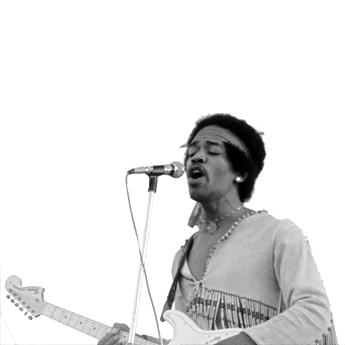
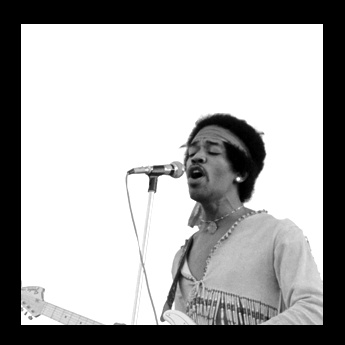
added support for non centered drawings

Changed region(s): [[0.0, 0.0, 1.0, 1.0]]

diff --git a/blackstripesMK1/machine_motion/builder.py b/blackstripesMK1/machine_motion/builder.py
@@ -78,7 +78,7 @@ class Builder:
         pos3 = posFromLengths(pos3[0],pos3[1])
         x,y = pos3
         x = int(math.floor(x))-g_Offset
-        y = int(math.floor(y))-g_Offset
+        y = int(math.floor(y))-g_yOffset
         try:
             level = self.input_image.getpixel((x,y))[0]
         except:
@@ -107,19 +107,19 @@ class Builder:
         print 'generating layer 1'
         layer1 = Layer()
         for offset in range(CURVED_ITERATIONS):
+            offset = offset - 50
             line = Line()
-            offset = offset*LINE_SPACING
-            bl1,bl2 = lengthFromPos(-PADDING + offset, g_Offset)
-            el1,el2 = lengthFromPos(g_MachineWidth-g_Offset, g_MachineWidth +PADDING- offset)
+            offset = offset * LINE_SPACING
+            bl1,bl2 = lengthFromPos(offset, g_yOffset)
+            el1,el2 = lengthFromPos(g_MachineWidth - g_Offset, (CANVAS_SIZE[1] + g_yOffset + g_Offset) - offset)
             dot_found = False
             for d in range(int(round(el1 - bl1))):
-                x,y = posFromLengths(bl1 + d, el2)
-                if x > g_Offset and y < g_MachineWidth - g_Offset:
-                    up = self.doDraw((bl1 + d, el2), mode="l", line=0,
-                                     level=levels[0], color=(0,0,0,255))
+                x,y = posFromLengths(bl1 + d, bl2)
+                if x > g_Offset and y < g_yOffset + CANVAS_SIZE[1]:
+                    up = self.doDraw((bl1 + d, bl2), mode="l", line=0, level=levels[0], color=(0,0,0,255))
                     if up > -1:
-                        line.addDot((bl1+d,el2,up))
-                    if up==1:
+                        line.addDot((bl1 + d,bl2,up))
+                    if up == 1:
                         dot_found = True
             if dot_found:
                 layer1.addLine(line)
@@ -132,16 +132,16 @@ class Builder:
         layer2 = Layer()
         
         for offset in range(CURVED_ITERATIONS):
+            offset = offset - 50
             line = Line()
             offset = offset*LINE_SPACING
-            bl1,bl2 = lengthFromPos(g_MachineWidth+PADDING - offset,g_Offset)
-            el1,el2 = lengthFromPos(g_Offset,g_MachineWidth+PADDING- offset)
+            bl1,bl2 = lengthFromPos(g_MachineWidth - offset,g_yOffset)
+            el1,el2 = lengthFromPos(g_Offset,(CANVAS_SIZE[1] + g_yOffset + g_Offset) - offset)
             dot_found = False
             for d in range(int(round(el2-bl2))):
                 x,y = posFromLengths(bl1,bl2+d)
-                if x > g_Offset and y < g_MachineWidth - g_Offset:
-                    up = self.doDraw((bl1,bl2+d), mode="l", line=0, 
-                                     level=levels[1], color=(0,0,0,255))
+                if x > g_Offset and y < g_yOffset + CANVAS_SIZE[1]:
+                    up = self.doDraw((bl1,bl2+d), mode="l", line=0, level=levels[1], color=(0,0,0,255))
                     if up > -1:
                         line.addDot((bl1,bl2+d,up))
                     if up==1:
@@ -164,15 +164,15 @@ class Builder:
             line = Line()
             offset = offset*LINE_SPACING - 100.0
             #startpoint
-            x,y = g_Offset,g_Offset + offset
+            x,y = g_Offset,g_yOffset + offset
             l,r = lengthFromPos(x,y)
             #endpoint
-            x2,y2 = g_MachineWidth-g_Offset,g_Offset+offset
+            x2,y2 = g_MachineWidth-g_Offset,g_yOffset+offset
             l2,r2 = lengthFromPos(x2,y2)
             dot_found = False
             for d in range(int(round(r - r2))):
                 x,y = posFromLengths(r-d, l+d)
-                if x > g_Offset and y < g_MachineWidth and y > g_Offset:
+                if x > g_Offset and y < g_MachineWidth and y > g_yOffset:
                     up = self.doDraw((r-d,l+d),mode="l",line=0, level=levels[2],color=(0,0,0,255))
                     if up == -1:
                         up = 0
@@ -194,26 +194,26 @@ class Builder:
             line = Line()
             offset = offset*LINE_SPACING
             #startpoint
-            x,y = g_Offset+offset,g_Offset
+            x,y = g_Offset+offset,g_yOffset
             l,r = lengthFromPos(x,y)
             #endpoint
-            x2,y2 = g_Offset+offset,g_MachineWidth - g_Offset
+            x2,y2 = g_Offset+offset,CANVAS_SIZE[1] + g_yOffset
             l2,r2 = lengthFromPos(x2,y2)
             dot_found = False
             #print 'calculated range: ',round(r2-r),round(l2-l)
             for d in range(max(int(round(r2-r)),int(round(l2-l)))):
                 x,y = posFromLengths(r+d, l+d)
-                if x > g_Offset and y < (g_MachineWidth - g_Offset) and x < (g_MachineWidth - g_Offset):
+                if x > g_Offset and y < (g_yOffset + CANVAS_SIZE[1]) and x < (g_MachineWidth - g_Offset):
                     up = self.doDraw((r+d, l+d),mode="l",line=0, level=levels[3],color=(0,0,0,255))
                     if up == -1:
                         up = 0
                     line.addDot((r+d, l+d,up))
-                    if up==1:
+                    if up == 1:
                         dot_found = True
             if dot_found:
                 layer4.addLine(line)
         
-        l,r = lengthFromPos(g_Offset + CANVAS_SIZE[0]-180,g_Offset+CANVAS_SIZE[1]+50)
+        l,r = lengthFromPos(g_Offset + CANVAS_SIZE[0]-180, g_yOffset + CANVAS_SIZE[1]+50)
         line = Line()
         line.addDot((l,r,up))
         layer4.addLine(line)

diff --git a/blackstripesMK1/machine_motion/machine_settings_xlarge.py b/blackstripesMK1/machine_motion/machine_settings_xlarge.py
@@ -5,10 +5,10 @@ DOTSIZE = 1.5
 TRANSITION_DOTSIZE = 5
 LEFT_STEPPER_POS = (0.0,0.0)
 RIGHT_STEPPER_POS = (2915.0,0.0)
-CANVAS_SIZE = (1500,1500)
-PADDING = 300
-LINE_SPACING = 12.5 * (1000.0/1500.0)
-CURVED_ITERATIONS = 825
+CANVAS_SIZE = (1530,1530)
+#PADDING = 0
+LINE_SPACING = 8.3
+CURVED_ITERATIONS = 400
 STRAIGHT_ITERATIONS = 250
 LINE_ALPHA = 255
 
@@ -17,7 +17,8 @@ STEPS_PER_MM = 42.5532
 Z_STEPS_PER_MM = 2 
 
 ###### globals #####
-g_Offset = (RIGHT_STEPPER_POS[0] - CANVAS_SIZE[0])
+g_Offset = (RIGHT_STEPPER_POS[0] - CANVAS_SIZE[0]) / 2
+g_yOffset = 860
 g_MachineWidth = int(RIGHT_STEPPER_POS[0])
 #g_NullPosition = lengthFromPos(750,750)
 g_NullPosition = (1580,1580)
